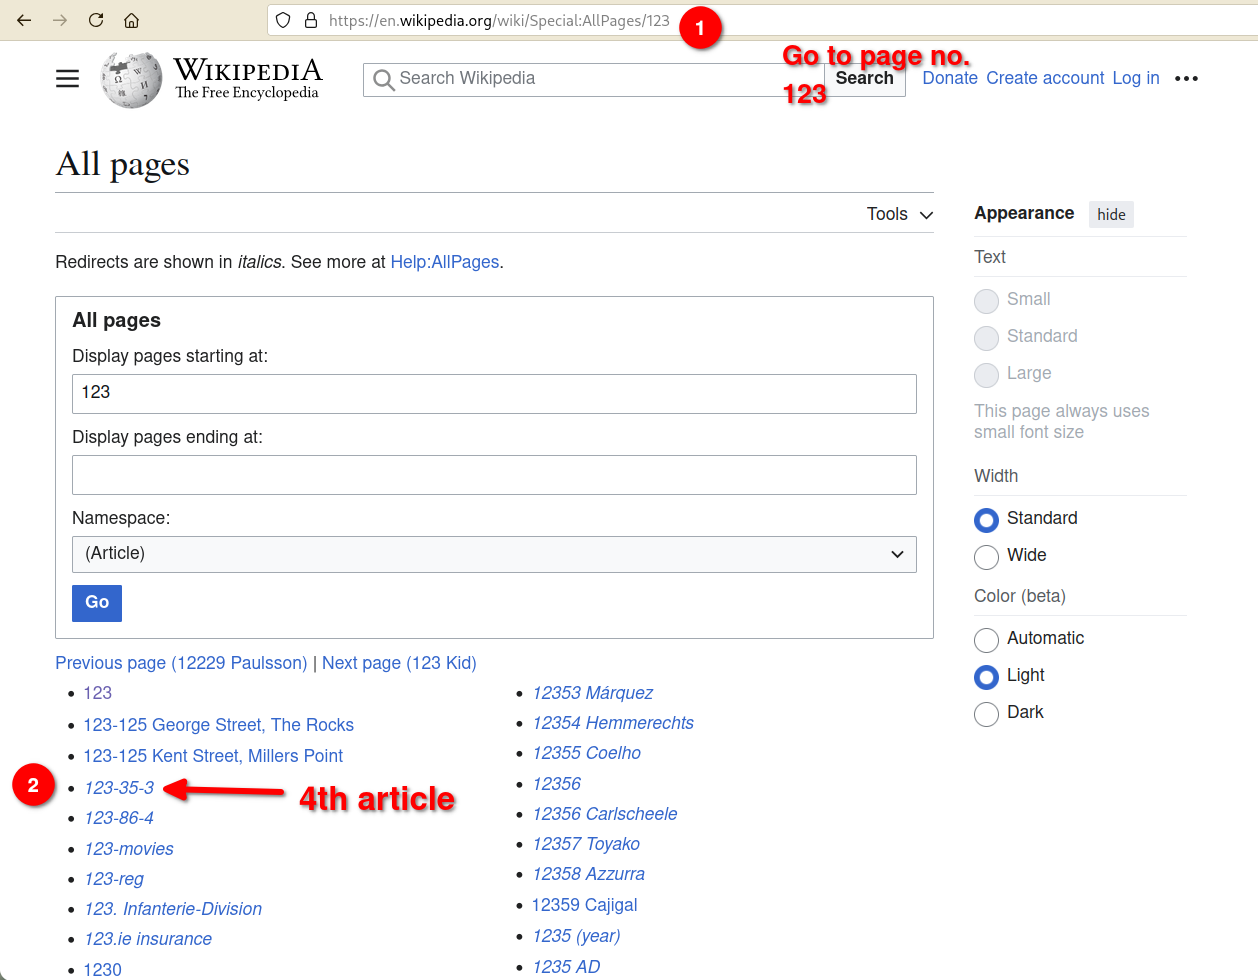
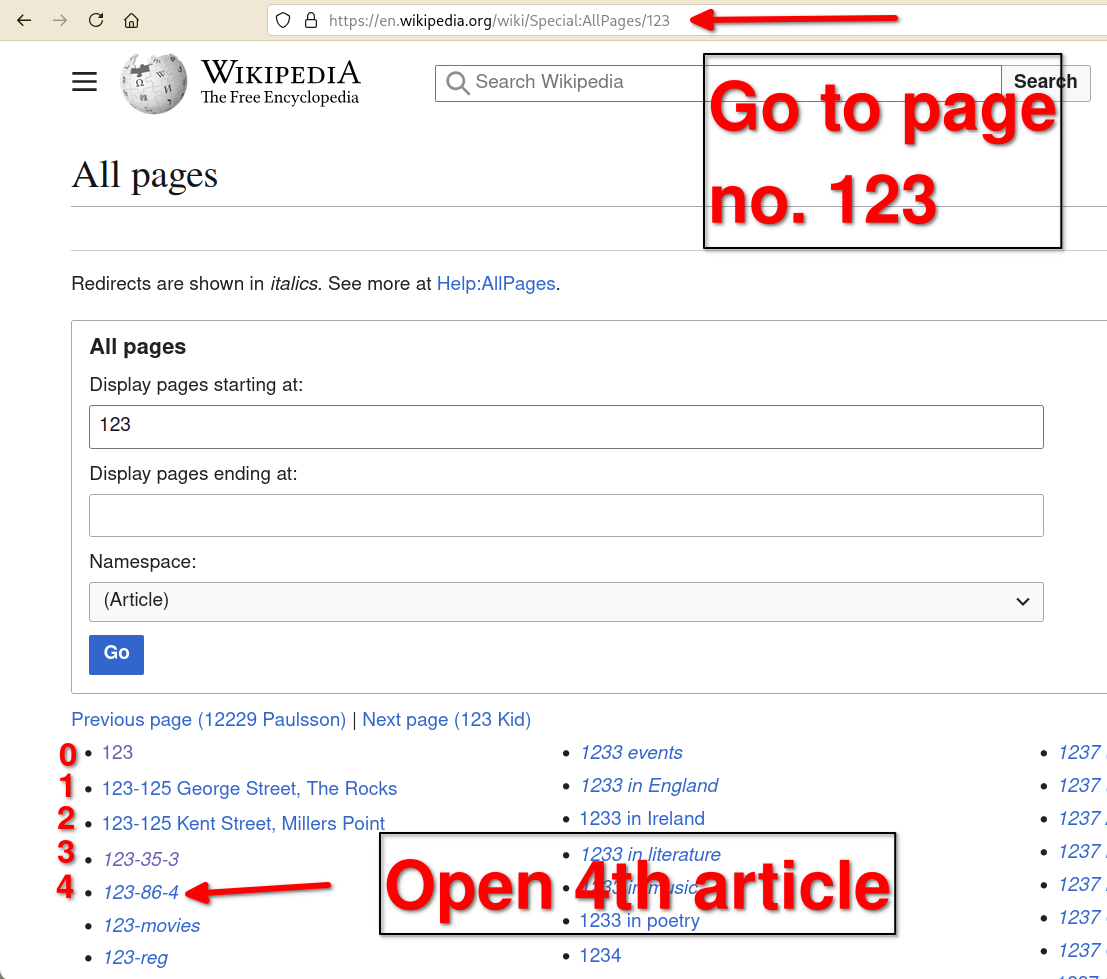
fix: Update how image for clear instructions, make solana payment optional

diff --git a/src/app/api/actions/read-mind/next/[num]/route.ts b/src/app/api/actions/read-mind/next/[num]/route.ts
@@ -61,7 +61,7 @@ export const POST = async (req: Request) => {
         icon: `${requestUrl.origin}/homepage.png`,
         title:
           'Step 2: Use the result and Reverse the Digits of Your Number. Then Add both numbers together.',
-        description: 'e.g. If you got 456, the result is 456 + 654 = 1110.',
+        description: 'e.g. If you got 789, the result is 789 + 987 = 1776.',
         label: 'Next',
         links: {
           actions: [
@@ -79,9 +79,9 @@ export const POST = async (req: Request) => {
       let payload: Action = {
         type: 'action',
         icon: `${requestUrl.origin}/homepage.png`,
-        title: `Step 3: Add Random Number to the Result: ${randomNumber}`,
-        description: `e.g. If you got 1110, the result is 1110 + ${randomNumber} = ${
-          1110 + randomNumber
+        title: `Step 3: Add this randomly generated number to the result: ${randomNumber}`,
+        description: `e.g. Let's say your sum is 1776, the result in that case would be 1776 + ${randomNumber} = ${
+          1776 + randomNumber
         }.`,
         label: 'Next',
         links: {
@@ -101,7 +101,7 @@ export const POST = async (req: Request) => {
         icon: `${requestUrl.origin}/how.png`,
         title:
           'Step 4: You must have a 4 digit number now! Enter the first 3 digits in Wikipedia index(https://en.wikipedia.org/wiki/Special:AllPages/{FirstThreeDigits}) and open the last digit article.',
-        description: `e.g. If you got ${exampleNumber}, navigate to https://en.wikipedia.org/wiki/Special:AllPages/123 and open the 4th article.\n Make sure to keep it private! Open that link in incognito mode or maybe on another device. Open the article and think about the title and read a bit about it. We will try to guess the article.`,
+        description: `e.g. If you got ${exampleNumber}, navigate to https://en.wikipedia.org/wiki/Special:AllPages/123 and open the 4th (start counting from 0) article.\n Make sure to keep it private! Open that link in incognito mode or maybe on another device. Open the article and think about the title and read a bit about it. We will try to guess the article.`,
         label: 'Next',
         links: {
           actions: [
@@ -155,7 +155,7 @@ export const POST = async (req: Request) => {
         el.getElementsByClassName('mw-allpages-chunk')[0];
       let desiredArticle = similarBrainWavesList
         .getElementsByTagName('li')
-        [numbers[1] - 1].getElementsByTagName('a')[0].title;
+        [numbers[1]].getElementsByTagName('a')[0].title;
       await fetch(`${process.env.WIKI_DB}${desiredArticle}`)
         .then((response) => {
           return response.json();
@@ -163,12 +163,33 @@ export const POST = async (req: Request) => {
         .then((data) => {
           response = data;
         });
-      let payload: CompletedAction = {
-        type: 'completed',
+      let payload: Action = {
+        type: 'action',
         icon: `${requestUrl.origin}/homepage.png`,
         title: `Are you thinking of a ${response.description} ?`,
         description: `Is this article about ${response.title}? We found a great match: ${response.extract}`,
-        label: 'Finish',
+        label: 'Loved it!, Donate to the creator',
+        links: {
+          actions: [
+            {
+              type: 'transaction',
+              label: 'Loved it! Donate to the creator',
+              href: `${baseHref}/6?amount={amount}`,
+              parameters: [
+                {
+                  name: 'amount',
+                  label: 'Enter the amount of SOL to donate',
+                  required: true,
+                },
+              ],
+            },
+            {
+              type: 'external-link',
+              label: 'Not Impressed? Play Again! (Free)',
+              href: `${baseHref}`,
+            },
+          ],
+        },
       };
       return Response.json(payload, { headers });
     }

diff --git a/src/app/api/actions/read-mind/route.ts b/src/app/api/actions/read-mind/route.ts
@@ -1,18 +1,10 @@
 import {
   ActionPostResponse,
-  createPostResponse,
   ActionGetResponse,
   ActionPostRequest,
   createActionHeaders,
 } from '@solana/actions';
-import {
-  clusterApiUrl,
-  Connection,
-  LAMPORTS_PER_SOL,
-  PublicKey,
-  SystemProgram,
-  Transaction,
-} from '@solana/web3.js';
+import { PublicKey } from '@solana/web3.js';
 
 const headers = createActionHeaders();
 
@@ -35,31 +27,9 @@ export const GET = async (req: Request) => {
       links: {
         actions: [
           {
-            type: 'transaction',
-            label: 'Begin Game (Custom Amount)',
-            href: `${baseHref}&amount={amount}`,
-            parameters: [
-              {
-                name: 'amount',
-                label: 'Enter the amount of SOL to start the game',
-                required: true,
-              },
-            ],
-          },
-          {
-            type: 'transaction',
-            label: 'Begin Game (0.1 SOL)',
-            href: `${baseHref}&amount=${'0.1'}`,
-          },
-          {
-            type: 'transaction',
-            label: 'Begin Game (1 SOL)',
-            href: `${baseHref}&amount=${'1'}`,
-          },
-          {
-            type: 'transaction',
-            label: 'Begin Game (5 SOL)',
-            href: `${baseHref}&amount=${'5'}`,
+            type: 'post',
+            label: "Let's Play!",
+            href: `${baseHref}`,
           },
         ],
       },
@@ -82,79 +52,18 @@ export const OPTIONS = async (req: Request) => {
 
 export const POST = async (req: Request) => {
   try {
-    const requestUrl = new URL(req.url);
-    const { amount } = validatedQueryParams(requestUrl);
-    const pubKey: PublicKey = new PublicKey(
-      'DAvUgsdF9SHb4d7aiSqExoPtR37jsgjAV3XUbgZNUpJc',
-    );
-    const body: ActionPostRequest = await req.json();
-    let account: PublicKey;
-    try {
-      account = new PublicKey(body.account);
-    } catch (err) {
-      return new Response('Invalid "account" provided', {
-        status: 400,
-        headers,
-      });
-    }
-
-    const connection = new Connection(
-      process.env.SOLANA_RPC || clusterApiUrl('devnet'),
-    );
-
-    const minimumBalance = await connection.getMinimumBalanceForRentExemption(
-      0,
-    );
-
-    // create an instruction to transfer native SOL from one wallet to another
-    const transferSolInstruction = SystemProgram.transfer({
-      fromPubkey: account,
-      toPubkey: pubKey,
-      lamports: amount * LAMPORTS_PER_SOL,
-    });
-
-    // get the latest blockhash amd block height
-    const { blockhash, lastValidBlockHeight } =
-      await connection.getLatestBlockhash();
-
-    // create a legacy transaction
-    const transaction = new Transaction({
-      feePayer: account,
-      blockhash,
-      lastValidBlockHeight,
-    }).add(transferSolInstruction);
-
-    const payload: ActionPostResponse = await createPostResponse({
-      fields: {
-        type: 'transaction',
-        transaction,
-        message: `Sent ${amount} SOL to MindReader: ${pubKey.toBase58()}`,
-        links: {
-          next: {
-            type: 'post',
-            href: '/api/actions/read-mind/next/1',
-          },
+    const payload: ActionPostResponse = {
+      type: 'post',
+      links: {
+        next: {
+          type: 'post',
+          href: '/api/actions/read-mind/next/1',
         },
       },
-    });
+    };
 
     return Response.json(payload, {
       headers,
     });
   } catch (err) {}
 };
-
-function validatedQueryParams(requestUrl: URL) {
-  let amount: number = 0.1;
-
-  try {
-    if (requestUrl.searchParams.get('amount')) {
-      amount = parseFloat(requestUrl.searchParams.get('amount')!);
-    }
-
-    if (amount <= 0) throw 'amount is too small';
-  } catch (err) {
-    throw 'Invalid input query parameter: amount';
-  }
-  return { amount };
-}

diff --git a/src/app/api/actions/read-mind/[num]/route.ts b/src/app/api/actions/read-mind/[num]/route.ts
@@ -1,27 +1,101 @@
-import { ActionPostResponse, createActionHeaders } from '@solana/actions';
+import {
+  ActionPostResponse,
+  createPostResponse,
+  ActionPostRequest,
+  createActionHeaders,
+} from '@solana/actions';
+import {
+  clusterApiUrl,
+  Connection,
+  LAMPORTS_PER_SOL,
+  PublicKey,
+  SystemProgram,
+  Transaction,
+} from '@solana/web3.js';
 
 const headers = createActionHeaders();
 
 export const POST = async (req: Request) => {
   try {
     const requestUrl = new URL(req.url);
+    const { amount } = validatedQueryParams(requestUrl);
+    const pubKey: PublicKey = new PublicKey(
+      'DAvUgsdF9SHb4d7aiSqExoPtR37jsgjAV3XUbgZNUpJc',
+    );
+    const body: ActionPostRequest = await req.json();
+    let account: PublicKey;
+    try {
+      account = new PublicKey(body.account);
+    } catch (err) {
+      return new Response('Invalid "account" provided', {
+        status: 400,
+        headers,
+      });
+    }
+
+    const connection = new Connection(
+      process.env.SOLANA_RPC || clusterApiUrl('devnet'),
+    );
     const num = Number(requestUrl.pathname.split('/').pop());
+    // create an instruction to transfer native SOL from one wallet to another
+    const transferSolInstruction = SystemProgram.transfer({
+      fromPubkey: account,
+      toPubkey: pubKey,
+      lamports: amount * LAMPORTS_PER_SOL,
+    });
+
+    // get the latest blockhash amd block height
+    const { blockhash, lastValidBlockHeight } =
+      await connection.getLatestBlockhash();
+
+    // create a legacy transaction
+    const transaction = new Transaction({
+      feePayer: account,
+      blockhash,
+      lastValidBlockHeight,
+    }).add(transferSolInstruction);
+
     const baseHref = new URL(
       `/api/actions/read-mind`,
       requestUrl.origin,
     ).toString();
 
-    let payload: ActionPostResponse = {
-      type: 'post',
-      links: {
-        next: {
-          type: 'post',
-          href: `${baseHref}/next/${num + 1}`,
+    if (num < 6) {
+      let payload: ActionPostResponse = {
+        type: 'post',
+        links: {
+          next: {
+            type: 'post',
+            href: `${baseHref}/next/${num + 1}`,
+          },
         },
-      },
-    };
+      };
 
-    return Response.json(payload, { headers });
+      return Response.json(payload, { headers });
+    } else {
+      let payload: ActionPostResponse = await createPostResponse({
+        fields: {
+          type: 'transaction',
+          transaction,
+          message: `Sent ${amount} SOL to MindReader: ${pubKey.toBase58()}`,
+          links: {
+            next: {
+              type: 'inline',
+              action: {
+                type: 'action',
+                icon: `${requestUrl.origin}/homepage.png`,
+                label: 'Thank you!',
+                title: 'Donate to the MindReader',
+                disabled: true,
+                description: 'Support the MindReader with a donation.',
+              },
+            },
+          },
+        },
+      });
+
+      return Response.json(payload, { headers });
+    }
   } catch (err) {
     console.log(err);
     let message = 'An error occurred while processing the request';
@@ -35,3 +109,18 @@ export const POST = async (req: Request) => {
 export const OPTIONS = async (req: Request) => {
   return new Response(null, { headers });
 };
+
+function validatedQueryParams(requestUrl: URL) {
+  let amount: number = 0.1;
+
+  try {
+    if (requestUrl.searchParams.get('amount')) {
+      amount = parseFloat(requestUrl.searchParams.get('amount')!);
+    }
+
+    if (amount <= 0) throw 'amount is too small';
+  } catch (err) {
+    throw 'Invalid input query parameter: amount';
+  }
+  return { amount };
+}
